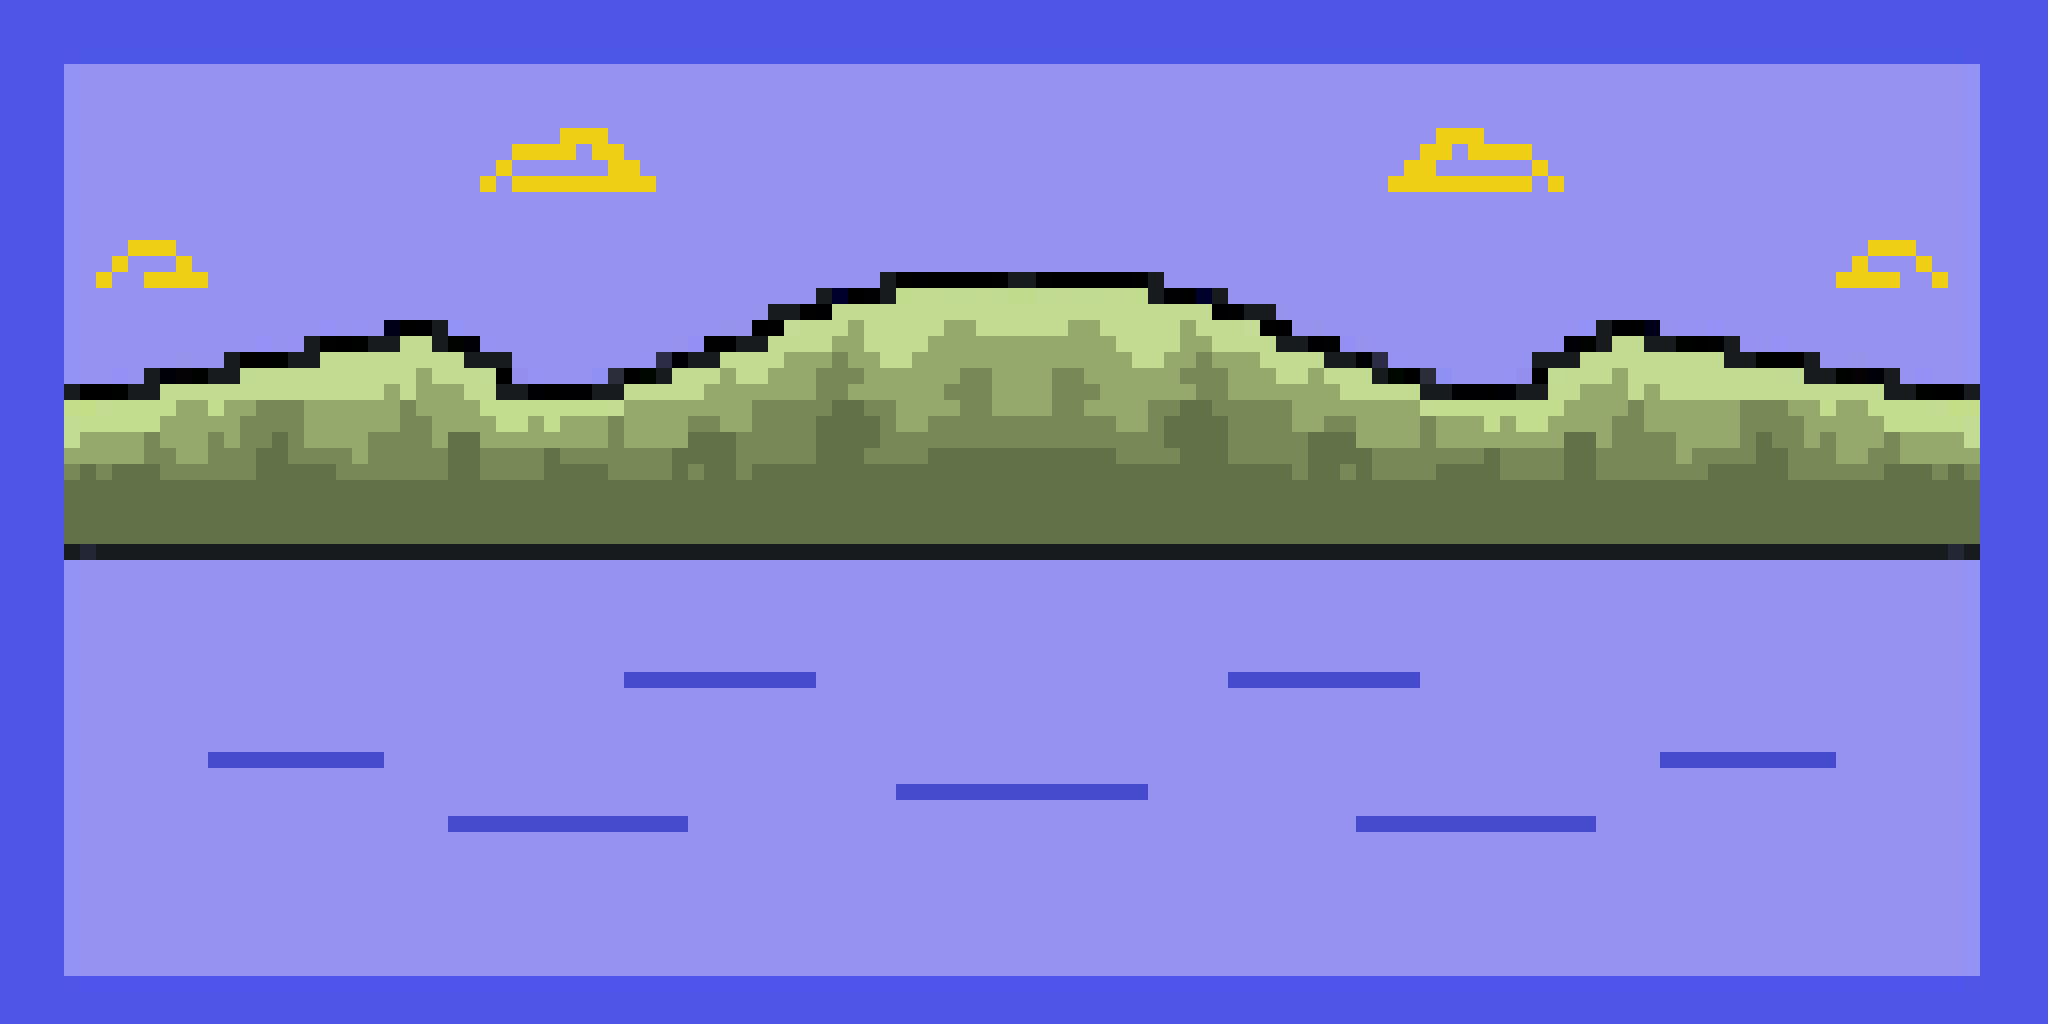
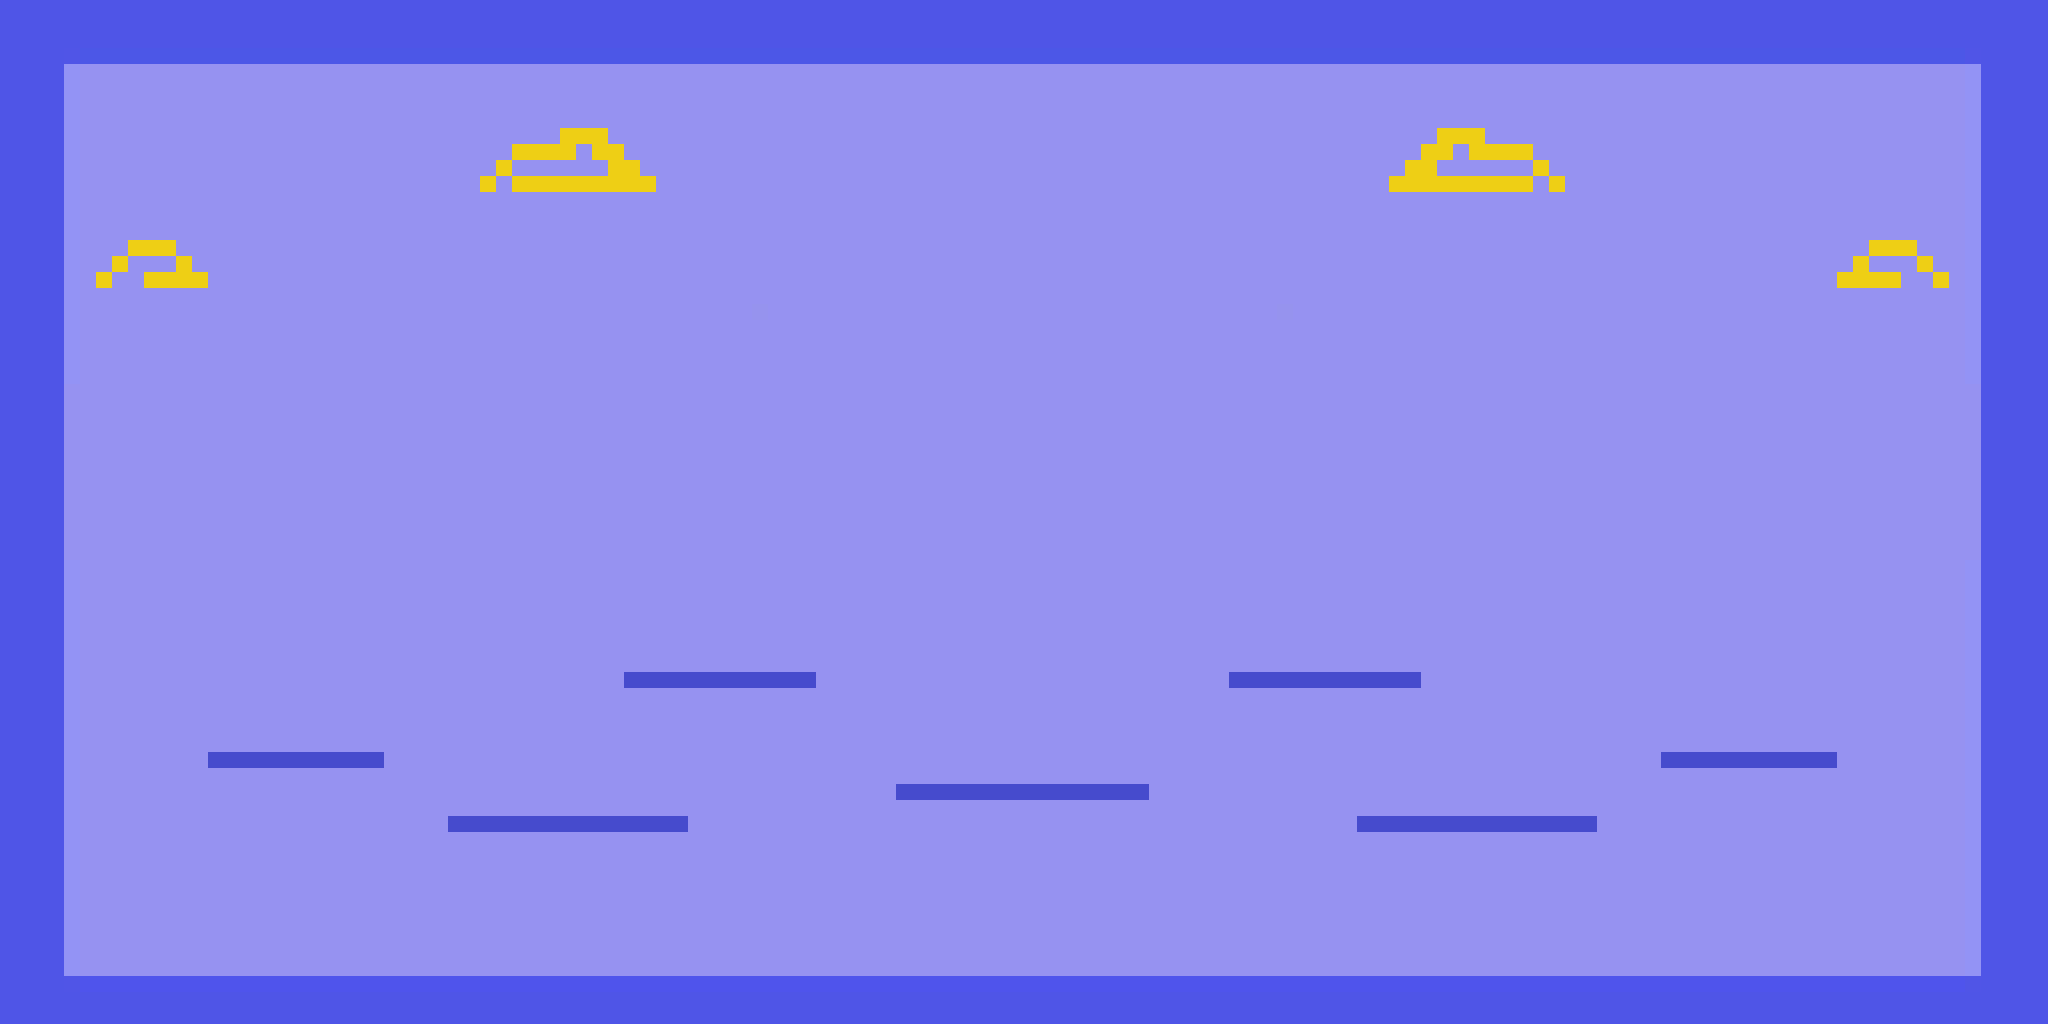
修改程式背景

Changed region(s): [[0.0312, 0.25, 0.9688, 0.5625]]

diff --git a/sketch.js b/sketch.js
@@ -2,6 +2,10 @@ let unicorn ;
 let tImg;
 let bImg;
 let uImg;
+let dImg;
+let mImg;
+var gImg;                
+var cImg; 
 let trains = [];
 let train;
 let checkbox;
@@ -23,7 +27,12 @@ let countdown;
 let seconds = 10;
 let holdtime = 0;
 let lastAddTime = 0;
-
+let cango = true;
+let noagain = 1;
+let trainx = 0;
+var cloudx =0 ;
+var groundX=0;
+var mountounX=0;  
 //EVENTS
 var mousePress = false;
 var mousePressEvent = false;
@@ -37,7 +46,13 @@ function preload(){
   uImg = loadImage("img/standup.png");
   bImg = loadImage("img/121.png");
   tImg = loadImage("img/train.png");
-  
+  dImg = loadImage("img/finish.png");
+  mImg = loadImage("img/moun.png");
+  gImg = loadImage("img/ground.png");
+  cImg = loadImage("img/cloud.png");
+  c1Img = loadImage("img/1.png");
+  c2Img = loadImage("img/4.png");
+  c3Img = loadImage("img/5.png");
   classifier = ml5.imageClassifier(modelURL + 'model.json');
   
 }
@@ -69,27 +84,59 @@ function classifyVideo(){
   classifier.classify(video, gotResults);
 }
 
+// gameScreen = 2;
+function backGroundPicture(){              //定义一个背景图片的函数
+//   if(gImg>(-1)*(gImg.width)/2){   //如果图片的左半部分在画布上
+//    groundX -= 8;                          //就使图片的横坐标减少一定的数值，实现图片向左移动
+//   }
+//    else    groundX=0;                     //如果图片的左半部分完全离开了画布，就使图片回到初始的位置 
+//   image(gImg,groundX,height-20,gImg.width,gImg.height);  //显示地面的图片
 
+//   if(cloudX>(-1)*(cImg.width)/2){     //如果图片的左半部分在画布上
+//    cloudX -= 1;                           //就使图片的横坐标减少一定的数值，实现图片向左移动
+//   }
+//    else   cloudX=0;                       //如果图片的左半部分完全离开了画布，就使图片回到初始的位置
+//   image(cImg,cloudX,50,cImg.width,cImg.height);  //显示云彩的图片
+
+//  if(mountounX>(-1)*(mImg.width)/2){ //如果图片的左半部分在画布上
+//    mountounX -= 0.3;                       //就使图片的横坐标减少一定的数值，实现图片向左移动
+//   }
+//    else   mountX=0;                        //如果图片的左半部分完全离开了画布，就使图片回到初始的位置
+//   image(mImg,mountounX,60,mImg.width,mImg.height);  //显示大山的图片
+background(100, 149, 237); 
+image(cImg, 0, 0, width, height);
+image(gImg, 0, 0, width, height);
+image(mImg, 0, 0, width, height);
+}
 function draw() {
   //background(bImg)
-  image(bImg, 0, 0, width, height);
-
-  if (gameScreen == 0) {         
+ 
+  
+   
+  if (gameScreen == 0) {   
+    
+    
+    backGroundPicture();
      initScreen();                
-   } else if (gameScreen == 1) {  
+   } else if (gameScreen == 1) { 
+    backGroundPicture();
      gamePlayScreen();
    } else if (gameScreen == 2) {  
      endGameScreen();            
    } 
   
+ 
   
     mousePressEvent = false;
     mouseReleaseEvent = false;
     keyPressEvent = false;
     keyReleaseEvent = false;
+   
+
   
   
 } 
+
 //EVENT
 function mousePressed() {
   mousePress = true;
@@ -141,28 +188,52 @@ function initScreen(){
 
 //遊戲中
 function gamePlayScreen(){
-  train.show();
-  unicorn.show();
-  addObstacle();
-  if(keepGame){
-    
-    unicorn.move();
-    
-    // console.log("遊戲中")
-    for(let t of trains){
-      t.move();
-      if(t.hit(unicorn) && isdone === false){ //isdone 避免再次觸發
-        console.log("hitst")
-        hitst = 1;
-        console.log("keepGame")
-        keepGame = false;
-      }
+ 
+
+  if(checkPoint === 4){
+      gameScreen = 2;
+      
     }
-    
-  }else{
-    // console.log("靜止動作");
-    smallgame();
-  }
+  
+  
+    if(keepGame && checkPoint < 4){
+
+      unicorn.show();
+      addObstacle();
+      unicorn.move();
+
+      // console.log("遊戲中")
+      for(let i = 0; i < trains.length; i++){
+
+        trains[i].show(checkPoint);
+        trains[i].move();
+        // console.log('checkPoint'+ trains.length);
+         // 再次觸發
+        // console.log(i + " "+trains[i].x);
+        // if(unicorn.hit(trains[i]) && isdone === true){
+        //   console.log('trans'+trains[checkPoint-2].x);
+        //   console.log('x ' + trainx);
+        //   if(((trainx) - (trains[checkPoint-2].x )) <= 7){
+        //     noagain = false;
+        //   }
+        // }
+
+        let go = (unicorn.hit(trains[i]));
+
+        if(go){ //isdone 避免再次觸發
+          console.log(i + " "+ trains[i].x)
+          hitst = 1;
+          // console.log("keepGame")
+          // noagain ++;
+          trainx = trains[i].x;
+          keepGame = false;
+        }
+      }
+
+    }else{
+      // console.log("靜止動作");
+      smallgame();
+    }
   
   if(mousePressEvent || (keyPressEvent && key == ' ') ) { 
     // console.log("有跳");
@@ -177,13 +248,20 @@ function gamePlayScreen(){
   
 }
 //障礙物
-let obs_count = 1;
+let obs_count = 0;
 function addObstacle(){                    
-  var interval=random(800,4000);           
+ 
+  var interval= 5000;
+  if(obs_count === 0){
+    interval = 1000;
+  }
+  
   if (millis()-lastAddTime > interval) {   
-
-     if (int(interval)%2==0 && obs_count <= 3){             obs_count ++;
-        trains.push(new Train());       
+      // console.log('time' + (millis()-lastAddTime))
+     if (int(interval)%2==0 && obs_count < 3){                  
+      trains.push(new Train());  
+      obs_count++;
+      console.log('obs_count'+obs_count);
      }
      // else{                                 
      //   birds.push(new Bird());             
@@ -195,22 +273,23 @@ function addObstacle(){
 function smallgame() {
   
   //isMove  = false; //不能動
-  rect(width/2,height/2,400,300);
-  fill(51);
+  // rect(width/2,height/2,400,300);
+  // fill(51);
   
   
-  image(video,width/4,100);
   
-  textSize(32);
-  textAlign(CENTER,CENTER);
-  fill(255);
-  text(label,width/2,height - 16 );
   
   //姿勢對嗎
   //剪刀石頭不
   if(checkPoint === 1 || checkPoint === 2 || checkPoint === 3){
+    image(video,width/4,100);
+  
+    textSize(32);
+    textAlign(CENTER,CENTER);
+    fill(255);
+    text(label,width/2,height - 16 );
     timer(checkPoint); //下一關
-    console.log("checkPoint === "+ checkPoint)
+    
   }
   
 }
@@ -223,32 +302,36 @@ function timer(checkPoint) {
   if (frameCount % 60 == 0 && seconds > 0) {
     seconds --;
     console.log("seconds")
-    if((checkPoint == 1 &&  label == "paper")){
+    if(seconds <= 0 ) {
+      text("GAME OVER", width/2, height*0.7);
+      noLoop();
+      setTimeout(function(){
+        initScreen();
+      },3000);
+      
+    }
+    if((checkPoint == 1 &&  label == "paper") || (checkPoint == 2 &&  label == "stone") || (checkPoint == 3 &&  label == "nothing")){
+      console.log('又回了')
       holdtime ++;
       console.log(holdtime);
       if(holdtime >= 2){
-        console.log("paper");
+        // console.log("paper");
         nextPoint();
       }
-      console.log("holdtime");
+      // console.log("holdtime");
     }
   }
-  
-  console.log("fuck");
-  if(seconds < 0 ) {
-    // text("GAME OVER", width/2, height*0.7);
-    
-    console.log("<0")
-  }
-
 }
 function nextPoint(){
     setTimeout(()=>{
       keepGame = true;
       hitst = 0;
       isdone = true;
+      trains.splice(0,1);
+      console.log(trains);
       checkPoint += 1;
-      console.log("text")
+      
+      // console.log("text")
     },2000);
     //----- 為神麼會閃一下就不見
       textSize(200); 
@@ -259,6 +342,14 @@ function nextPoint(){
   
 }
 
+function endGameScreen(){ 
+   background(150,146,241,3);
+   textAlign(CENTER);                 
+   fill(255);                  
+   textSize(75);                     
+   text("成功", width/2, 80); 
+   image(dImg,width/4,height/4,400,400);
+}
 //成功辨識
 function game_sucess(){
    

diff --git a/train.js b/train.js
@@ -6,20 +6,22 @@ class Train {
     this.y = random(height/2-10,height / 2);
   }
   
-  hit(uni){
-    let x1 = this.x + this.r * 0.8;
-    let y1 = this.y + this.r * 0.8;
-    let x2 = uni.x + uni.r * 0.5;
-    let y2 = uni.y + uni.r * 0.5;
-    return collideCircleCircle(x1,y1,this.r,x2,y2,uni.r);
-  }
+  
   
   move(){
     this.x -= 7;
   }
   
-  show(){
-    image(tImg,this.x,this.y,this.r,this.r);
+  show(showimg){
+    let CC;
+    if(showimg === 1){
+      CC = c1Img ;
+    }else if(showimg === 2){
+       CC = c2Img ;
+    }else if(showimg === 3){
+       CC = c3Img ;
+    }
+    image(CC,this.x,this.y,this.r,this.r);
     fill(255,50);
     // ellipseMode(CORNER);
     // ellipse(this.x,this.y,this.r,this.r)

diff --git a/unicorn.js b/unicorn.js
@@ -1,14 +1,20 @@
 class Unicorn{
   
   constructor() {
-    this.r = 100;
+    this.r = 95;
     this.x = 50;
     this.y = height - this.r;
     this.vy = 0;
     this.gravity = 3;
     this.newp = height - this.r
   }
-  
+  hit(uni){ // uni是train
+    let x1 = this.x + this.r * 0.8;
+    let y1 = this.y + this.r * 0.8;
+    let x2 = uni.x + uni.r * 0.5;
+    let y2 = uni.y + uni.r * 0.5;
+    return collideCircleCircle(x1,y1,this.r,x2,y2,uni.r);
+  }
   jump(){
     if(hitst==0){
       if(this.y === height - this.r){
